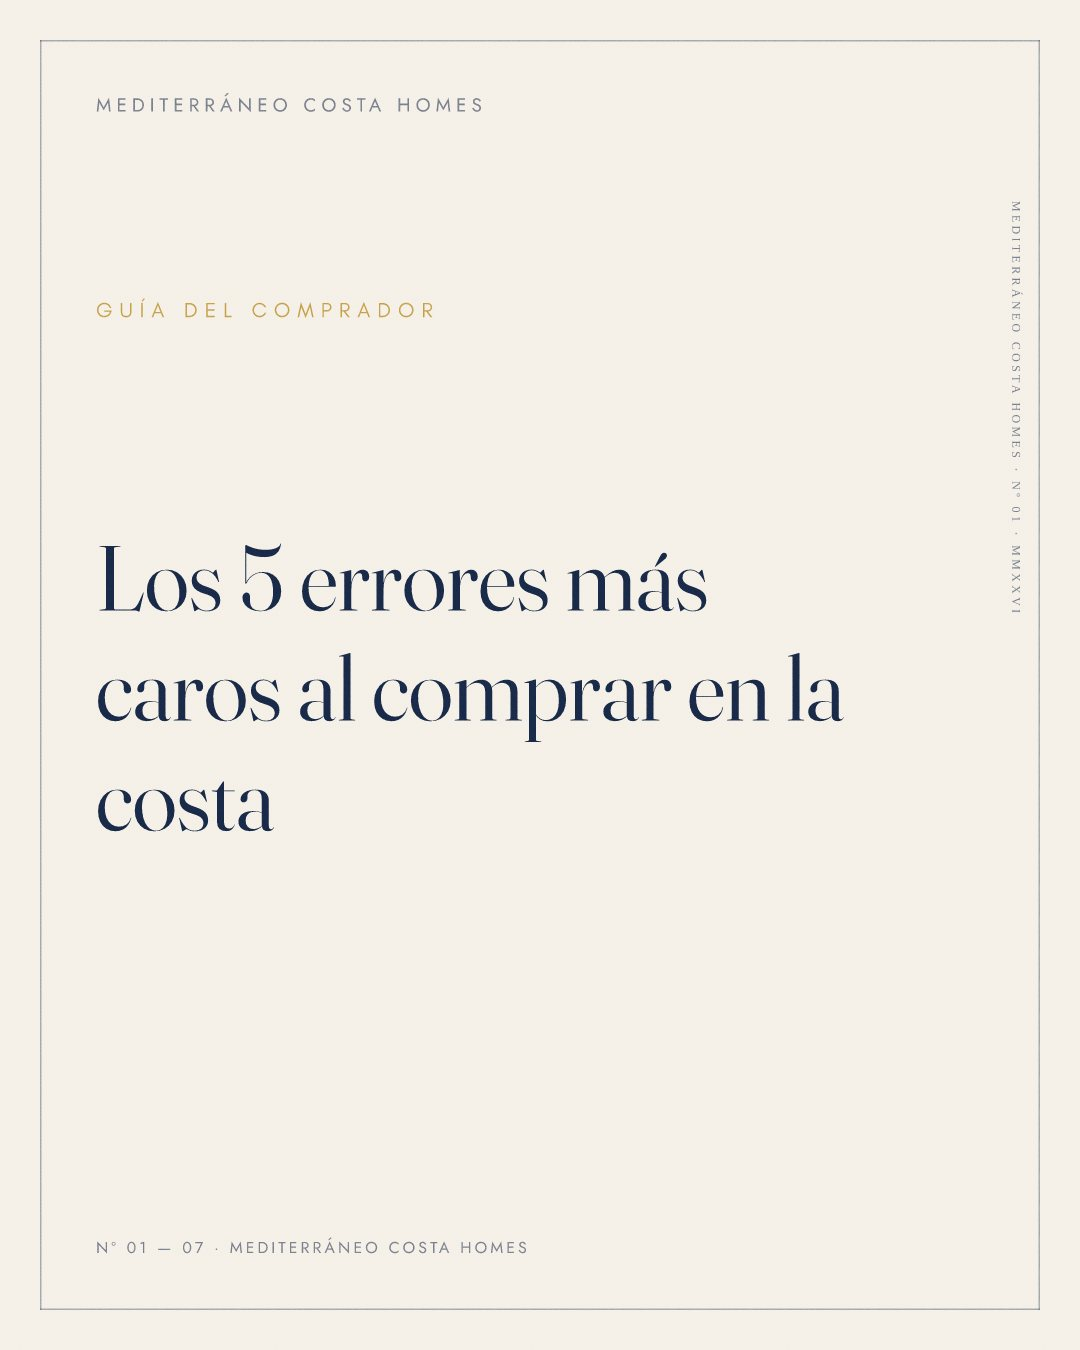
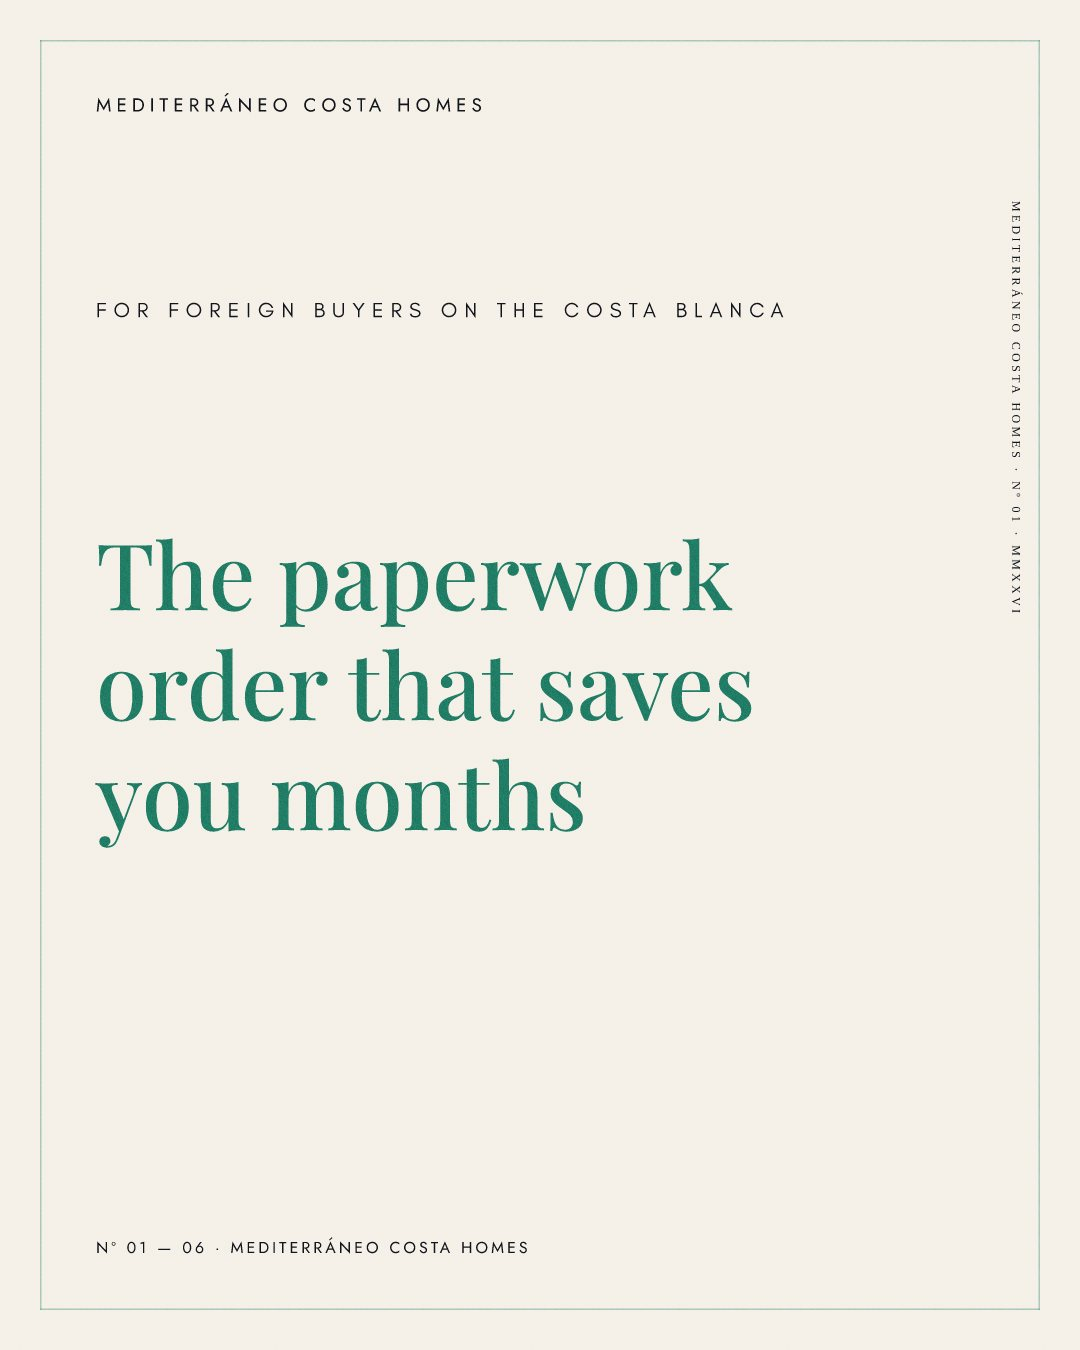
chore(studio): Sereno's example is now Christian's own reviewed deck
He asked for the deck we just reviewed to become Sereno's example in the picker, replacing the
Spanish 7-slide one. Installed as 6 slides — hero + 4 tips + closing, the structure RULE 3 now
produces — and rendered from that deck's stored plan through the CURRENT engine, so the example
shows his brand green on the headlines rather than the near-black the original download had
(the flat 4.5:1 floor that was discarding brand colour is fixed).

Note: this example carries HIS two greens rather than a neutral palette, because it is his deck.
Fine for the pilot; worth revisiting when a second agency onboards and the picker should show
something brand-neutral.

diff --git a/apps/dashboard/app/(app)/studio/carousel-studio.tsx b/apps/dashboard/app/(app)/studio/carousel-studio.tsx
@@ -79,8 +79,10 @@ function tasteScore(styleKey: string, prefs: Record<string, string> | null): num
 const EXAMPLE_COUNTS: Record<string, number> = {
   // tips styles: FULL decks rendered by the production engine (Christian 2026-08-28: "i want
   // all the slides in examples not just 3")
+  // sereno = Christian's own reviewed deck (2026-08-30), the first example replaced under the
+  // rules pass: 6 slides, hero + 4 tips + closing, in his brand colours
   acuarela: 8, arcilla: 8, bodegon: 8, bordado: 8, cartel: 7, editorial: 7, encalada: 7,
-  litoral: 8, mercado: 8, papel: 8, pueblo: 8, salitre: 8, sereno: 7, tinta: 8,
+  litoral: 8, mercado: 8, papel: 8, pueblo: 8, salitre: 8, sereno: 6, tinta: 8,
   // listing styles (parked out of the UI): partial sample sets remain
   brisa: 2, cuarteto: 2, horizonte: 3, marea: 2, plano: 3, portada: 3, recorte: 2, riviera: 2, ventana: 2,
 };
